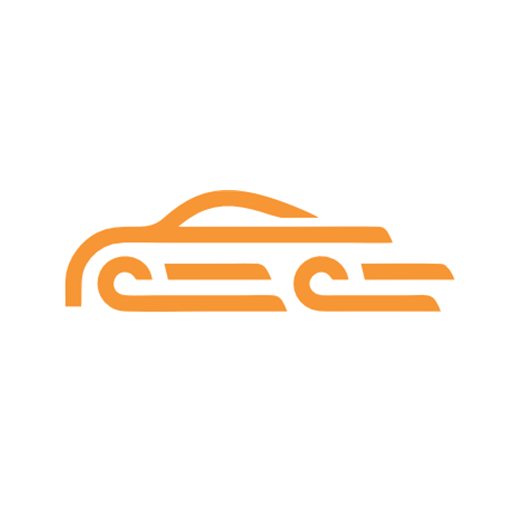
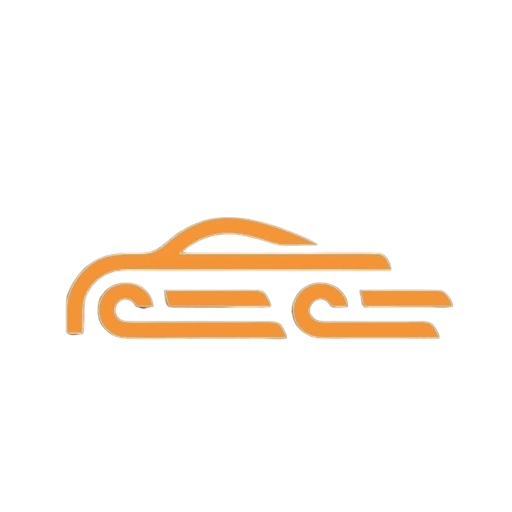
pwa

Changed region(s): [[0.125, 0.3438, 0.9062, 0.6875]]

diff --git a/frontend/src/components/PWAInstallPrompt.jsx b/frontend/src/components/PWAInstallPrompt.jsx
@@ -81,7 +81,7 @@ export default function PWAInstallPrompt() {
           <div className="flex flex-col items-center text-center">
             {/* App Icon */}
             <div className="w-16 h-16 rounded-2xl overflow-hidden shadow-lg ring-1 ring-black/5 mb-4">
-              <img src="/logo.png" alt="Sadguru Car Melo" className="w-full h-full object-contain bg-white" />
+              <img src="/logo1.png" alt="Sadguru Car Melo" className="w-full h-full object-contain bg-white" />
             </div>
 
             <h3 className="font-heading font-bold text-xl text-slate-900 leading-tight">